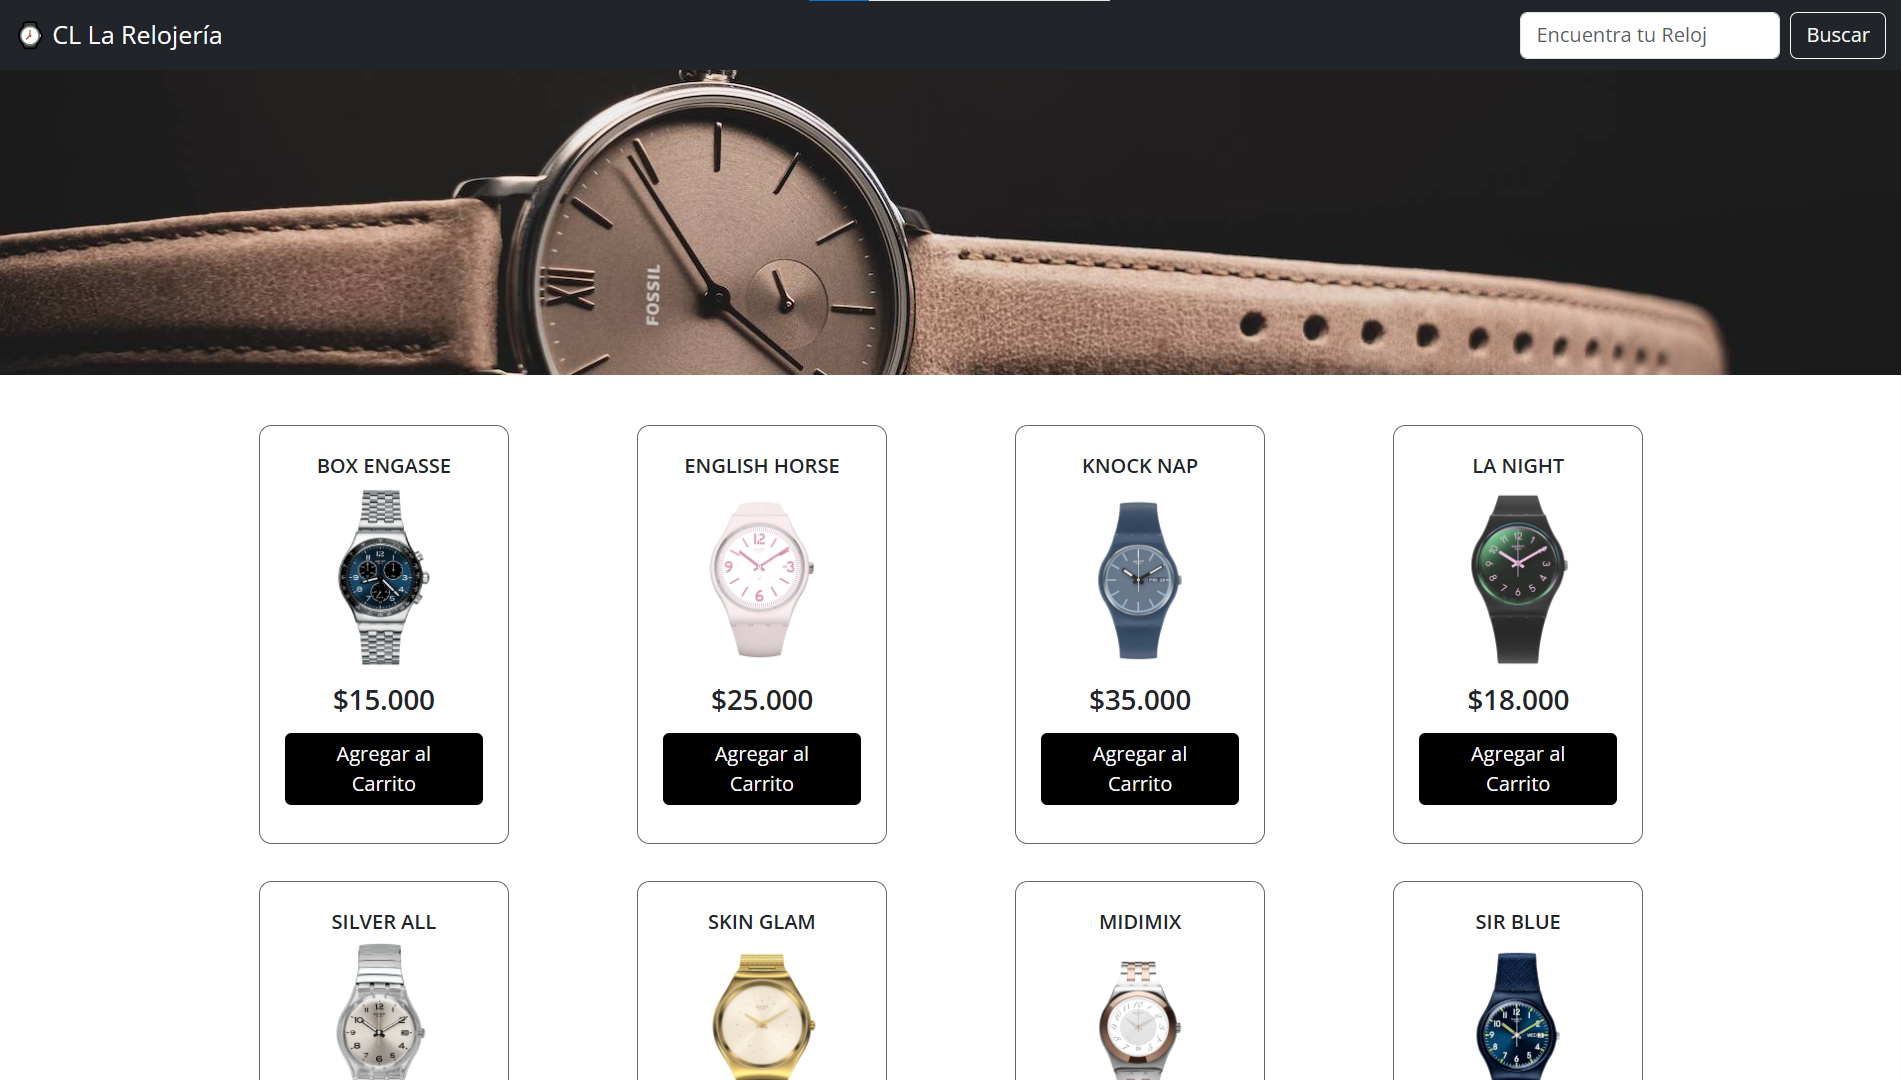
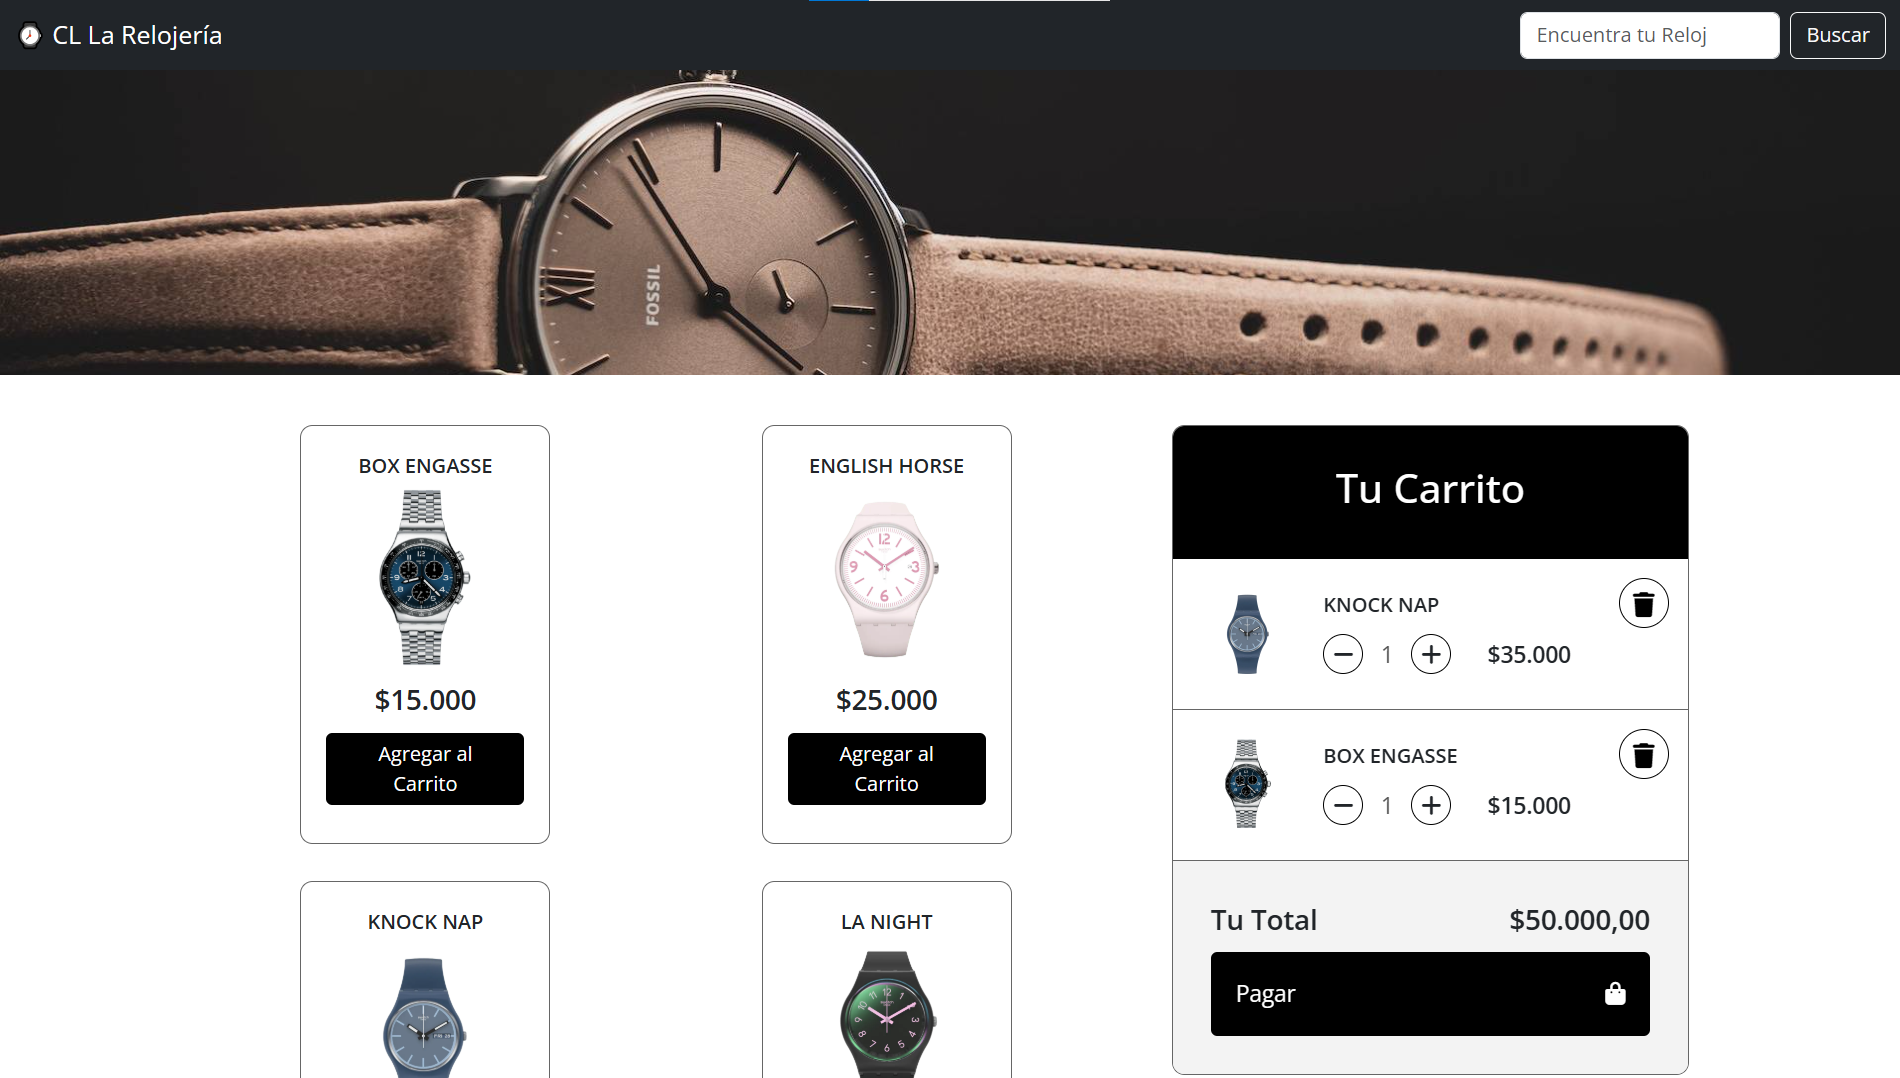
actualiza imagenes y archivo data

diff --git a/data.tsx b/data.tsx
@@ -132,51 +132,51 @@ export const dataExperience = [
         title: "Frontend Development  💄",
         experience: [
             {
-                name: "HTML",
+                name: "HTML & CSS",
                 subtitle: "Experimentado",
-                value: 88,
+                value: 85,
             },
             {
-                name: "CSS",
+                name: "Bootstrap",
                 subtitle: "Experimentado",
                 value: 80,
             },
             {
-                name: "JavaScript",
+                name: "Tailwind CSS",
                 subtitle: "Intermedio",
                 value: 70,
             },
             {
-                 name: "Next JS",
-                 subtitle: "Intermeddio",
-                 value: 60,
+                 name: "JavaScript",
+                 subtitle: "Intermedio",
+                 value: 70,
              },
             {
                 name: "React",
                 subtitle: "Intermedio",
-                value: 65,
+                value: 70,
             },
             {
-                name: "Tailwind CSS",
+                name: "Next JS",
                 subtitle: "Intermedio",
-                value: 68,
+                value: 65,
             },
         ],
     },
     {
         id: 2,
-        title: "Backend Development 🐱👤",
+        title: "Backend Development  🕵♂",
         experience: [
             {
                 name: "Node JS",
                 subtitle: "Básico",
                 value: 60,
             },
-            {
-                name: "Mongo DB",
-                subtitle: "Básico",
-                value: 50,
-            },
+            // {
+            //     name: "Mongo DB",
+            //     subtitle: "Básico",
+            //     value: 50,
+            // },
             {
                 name: "Python",
                 subtitle: "Básico",
